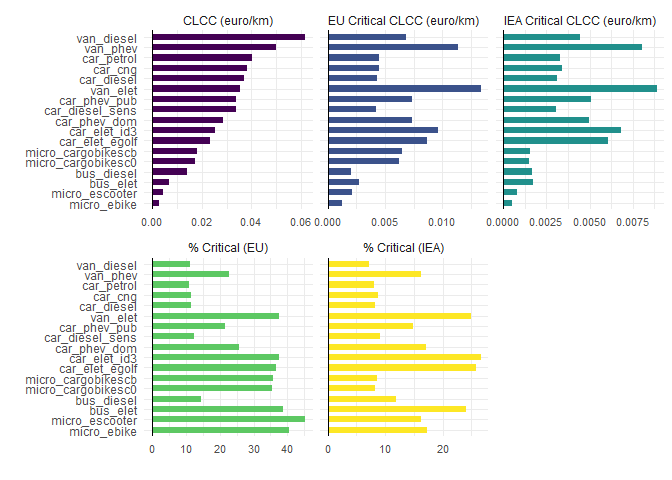
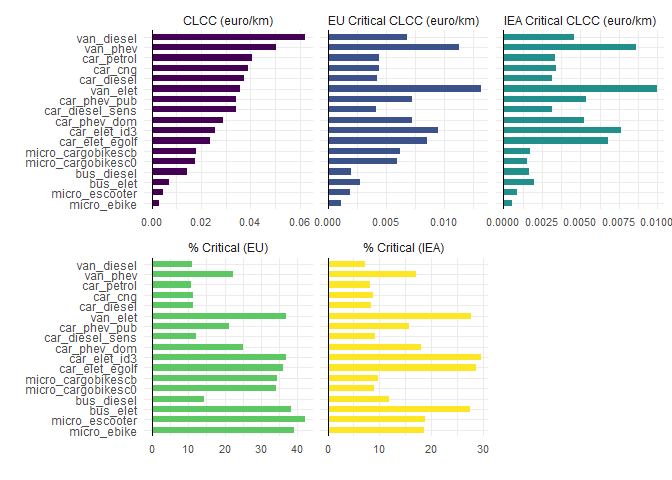
Updates in DESCRIPTION, README and Vignette files

diff --git a/README.md b/README.md
@@ -50,14 +50,14 @@ res[["table"]]
 #>    object    phase    clcc clcc_critical_eu clcc_critical_iea share_critical_iea
 #>    <chr>     <chr>   <dbl>            <dbl>             <dbl>              <dbl>
 #>  1 bus_dies… batt… 0              0                 0                      0    
-#>  2 bus_dies… manu… 3.93e-4        0.0000541         0.0000735             18.7  
-#>  3 bus_dies… total 1.40e-2        0.00204           0.00166               11.9  
+#>  2 bus_dies… manu… 3.97e-4        0.0000527         0.0000747             18.8  
+#>  3 bus_dies… total 1.42e-2        0.00205           0.00170               11.9  
 #>  4 bus_dies… uso   0              0                 0                      0    
-#>  5 bus_dies… veic… 4.06e-3        0.00180           0.00152               37.3  
-#>  6 bus_dies… vett… 9.57e-3        0.000179          0.0000719              0.752
-#>  7 bus_elet  batt… 2.75e-3        0.00186           0.00128               46.6  
-#>  8 bus_elet  manu… 3.26e-4        0.0000414         0.0000343             10.5  
-#>  9 bus_elet  total 7.10e-3        0.00275           0.00171               24.1  
+#>  5 bus_dies… veic… 4.12e-3        0.00182           0.00155               37.6  
+#>  6 bus_dies… vett… 9.70e-3        0.000175          0.0000748              0.772
+#>  7 bus_elet  batt… 2.80e-3        0.00189           0.00155               55.5  
+#>  8 bus_elet  manu… 3.29e-4        0.0000400         0.0000348             10.6  
+#>  9 bus_elet  total 7.19e-3        0.00275           0.00199               27.7  
 #> 10 bus_elet  uso   0              0                 0                      0    
 #> # ℹ 92 more rows
 #> # ℹ 1 more variable: share_critical_eu <dbl>
@@ -70,7 +70,7 @@ The default plot looks like:
 res[["plot"]]
 ```
 
-<img src="man/figures/README-example1-plot-1.png" width="100%" />
+<img src="man/figures/README-example1-plot-1.png" alt="" width="100%" />
 
 Even though data on reference prices cannot be updated programmatically
 since not all source have an API, it is possible to extract a tibble
@@ -85,15 +85,16 @@ information on price levels and data sources in the
 prices <- clcc_prices_ref
 
 head(prices, 5)
-#> # A tibble: 5 × 13
+#> # A tibble: 5 × 14
 #>   comm      no_comm um    source  critical_eu critical_iea macro_cat code   mean
 #>   <chr>       <dbl> <chr> <chr>   <chr>       <chr>        <chr>     <chr> <dbl>
 #> 1 Acids           1 kg    none    no          no           Chemical… <NA>     0 
-#> 2 Actinium        2 kg    comtra… no          no           Actinium  2844…  218.
+#> 2 Actinium        2 kg    comtra… no          no           Actinium  2844…  348.
 #> 3 Additives       3 kg    none    no          no           Chemical… <NA>     0 
 #> 4 Air             4 kg    none    no          no           Gases, o… <NA>     0 
 #> 5 Alloys          5 kg    none    no          no           Other     <NA>     0 
-#> # ℹ 4 more variables: min <dbl>, max <dbl>, n_obs <int>, ref_yr <dbl>
+#> # ℹ 5 more variables: min <dbl>, max <dbl>, n_obs <int>, update_yr <dbl>,
+#> #   defl_year <dbl>
 ```
 
 The `clcc` function returns the total CLCC indicator (computed taking
@@ -114,23 +115,21 @@ detail_info <- clcc_detail(data_path = path_to_folder,
                            critical = FALSE,
                            phase_of_int = "total",
                            collapse_share = 0.9)
-#> Joining with `by = join_by(comm, um, no_comm)`
-#> Joining with `by = join_by(object, phase, clcc_type)`
 
 head(detail_info[["table"]], 10)
 #> # A tibble: 10 × 6
 #>    object     macro_cat   phase clcc_type         clcc  share
 #>    <chr>      <chr>       <chr> <chr>            <dbl>  <dbl>
-#>  1 bus_diesel Oil         total baseline-clcc 0.00885  0.631 
-#>  2 bus_diesel Shale       total baseline-clcc 0.00195  0.139 
-#>  3 bus_diesel Other       total baseline-clcc 0.00140  0.100 
-#>  4 bus_diesel PGMs        total baseline-clcc 0.00111  0.0792
-#>  5 bus_diesel Natural gas total baseline-clcc 0.000709 0.0506
-#>  6 bus_elet   Natural gas total baseline-clcc 0.00226  0.318 
-#>  7 bus_elet   Other       total baseline-clcc 0.000837 0.118 
-#>  8 bus_elet   Lithium     total baseline-clcc 0.000801 0.113 
-#>  9 bus_elet   Coal        total baseline-clcc 0.000735 0.104 
-#> 10 bus_elet   Oil         total baseline-clcc 0.000674 0.0949
+#>  1 bus_diesel Oil         total baseline-clcc 0.00897  0.631 
+#>  2 bus_diesel Other       total baseline-clcc 0.00212  0.149 
+#>  3 bus_diesel Shale       total baseline-clcc 0.00198  0.140 
+#>  4 bus_diesel PGMs        total baseline-clcc 0.00114  0.0800
+#>  5 bus_elet   Natural gas total baseline-clcc 0.00232  0.322 
+#>  6 bus_elet   Other       total baseline-clcc 0.000837 0.116 
+#>  7 bus_elet   Lithium     total baseline-clcc 0.000834 0.116 
+#>  8 bus_elet   Coal        total baseline-clcc 0.000693 0.0963
+#>  9 bus_elet   Oil         total baseline-clcc 0.000683 0.0950
+#> 10 bus_elet   Nickel      total baseline-clcc 0.000445 0.0619
 ```
 
 Also in this case the function returns a default plot of the results.
@@ -140,7 +139,7 @@ Also in this case the function returns a default plot of the results.
 detail_info[["plot"]]
 ```
 
-<img src="man/figures/README-example4-plot-1.png" width="100%" />
+<img src="man/figures/README-example4-plot-1.png" alt="" width="100%" />
 
 The package provides two alternative versions of the CLCC indicator,
 taking into account critical materials only. The first alternative uses
@@ -183,21 +182,20 @@ res_weights <-
     use_weights = TRUE,
     weights_path = path_to_weights
   )
-#> Joining with `by = join_by(object, comm, phase)`
 
 res_weights[["table"]]
 #> # A tibble: 102 × 7
 #>    object    phase    clcc clcc_critical_eu clcc_critical_iea share_critical_iea
 #>    <chr>     <chr>   <dbl>            <dbl>             <dbl>              <dbl>
 #>  1 bus_dies… batt… 0              0                 0                      0    
-#>  2 bus_dies… manu… 3.93e-4        0.0000293         0.0000737             18.8  
-#>  3 bus_dies… total 1.40e-2        0.00175           0.00167               11.9  
+#>  2 bus_dies… manu… 3.97e-4        0.0000292         0.0000749             18.9  
+#>  3 bus_dies… total 1.42e-2        0.00178           0.00170               12.0  
 #>  4 bus_dies… uso   0              0                 0                      0    
-#>  5 bus_dies… veic… 4.07e-3        0.00161           0.00152               37.4  
-#>  6 bus_dies… vett… 9.57e-3        0.000120          0.0000720              0.752
-#>  7 bus_elet  batt… 2.75e-3        0.00161           0.00128               46.6  
-#>  8 bus_elet  manu… 3.26e-4        0.0000181         0.0000344             10.6  
-#>  9 bus_elet  total 7.11e-3        0.00208           0.00172               24.2  
+#>  5 bus_dies… veic… 4.12e-3        0.00164           0.00155               37.6  
+#>  6 bus_dies… vett… 9.70e-3        0.000120          0.0000749              0.773
+#>  7 bus_elet  batt… 2.80e-3        0.00165           0.00155               55.6  
+#>  8 bus_elet  manu… 3.30e-4        0.0000180         0.0000350             10.6  
+#>  9 bus_elet  total 7.20e-3        0.00213           0.00200               27.7  
 #> 10 bus_elet  uso   0              0                 0                      0    
 #> # ℹ 92 more rows
 #> # ℹ 1 more variable: share_critical_eu <dbl>
@@ -228,30 +226,28 @@ phase <- "total" # the life cycle phase for which running the simulation
 mc_res <- clcc_mc(data_path = path_to_folder, 
                   #weights_path = path_to_weights,
                   rep = rep)
-#> Joining with `by = join_by(comm, um, no_comm)`
-#> Joining with `by = join_by(object, phase)`
 
 mc_res[["table"]]
 #> # A tibble: 17 × 10
 #>    object      phase clcc_sim ecdf_fn    clcc clcc_critical_eu clcc_critical_iea
 #>    <chr>       <chr> <list>   <list>    <dbl>            <dbl>             <dbl>
-#>  1 bus_diesel  total <dbl>    <ecdf>  0.0140           0.00204          0.00166 
-#>  2 bus_elet    total <dbl>    <ecdf>  0.00710          0.00275          0.00171 
-#>  3 car_cng     total <dbl>    <ecdf>  0.0382           0.00447          0.00338 
-#>  4 car_diesel  total <dbl>    <ecdf>  0.0371           0.00428          0.00310 
-#>  5 car_diesel… total <dbl>    <ecdf>  0.0337           0.00422          0.00307 
-#>  6 car_elet_e… total <dbl>    <ecdf>  0.0235           0.00864          0.00608 
-#>  7 car_elet_i… total <dbl>    <ecdf>  0.0256           0.00960          0.00682 
-#>  8 car_petrol  total <dbl>    <ecdf>  0.0402           0.00444          0.00328 
-#>  9 car_phev_d… total <dbl>    <ecdf>  0.0288           0.00738          0.00494 
-#> 10 car_phev_p… total <dbl>    <ecdf>  0.0339           0.00734          0.00506 
-#> 11 micro_carg… total <dbl>    <ecdf>  0.0175           0.00622          0.00146 
-#> 12 micro_carg… total <dbl>    <ecdf>  0.0182           0.00653          0.00156 
-#> 13 micro_ebike total <dbl>    <ecdf>  0.00306          0.00124          0.000529
-#> 14 micro_esco… total <dbl>    <ecdf>  0.00472          0.00213          0.000766
-#> 15 van_diesel  total <dbl>    <ecdf>  0.0614           0.00687          0.00446 
-#> 16 van_elet    total <dbl>    <ecdf>  0.0356           0.0133           0.00887 
-#> 17 van_phev    total <dbl>    <ecdf>  0.0497           0.0114           0.00806 
+#>  1 bus_diesel  total <dbl>    <ecdf>  0.0142           0.00205          0.00170 
+#>  2 bus_elet    total <dbl>    <ecdf>  0.00719          0.00275          0.00199 
+#>  3 car_cng     total <dbl>    <ecdf>  0.0389           0.00442          0.00344 
+#>  4 car_diesel  total <dbl>    <ecdf>  0.0376           0.00424          0.00316 
+#>  5 car_diesel… total <dbl>    <ecdf>  0.0340           0.00418          0.00313 
+#>  6 car_elet_e… total <dbl>    <ecdf>  0.0237           0.00857          0.00682 
+#>  7 car_elet_i… total <dbl>    <ecdf>  0.0257           0.00951          0.00763 
+#>  8 car_petrol  total <dbl>    <ecdf>  0.0407           0.00440          0.00335 
+#>  9 car_phev_d… total <dbl>    <ecdf>  0.0290           0.00727          0.00527 
+#> 10 car_phev_p… total <dbl>    <ecdf>  0.0342           0.00723          0.00540 
+#> 11 micro_carg… total <dbl>    <ecdf>  0.0174           0.00593          0.00156 
+#> 12 micro_carg… total <dbl>    <ecdf>  0.0181           0.00623          0.00175 
+#> 13 micro_ebike total <dbl>    <ecdf>  0.00303          0.00118          0.000564
+#> 14 micro_esco… total <dbl>    <ecdf>  0.00455          0.00191          0.000858
+#> 15 van_diesel  total <dbl>    <ecdf>  0.0622           0.00682          0.00456 
+#> 16 van_elet    total <dbl>    <ecdf>  0.0358           0.0132           0.00996 
+#> 17 van_phev    total <dbl>    <ecdf>  0.0503           0.0113           0.00860 
 #> # ℹ 3 more variables: share_critical_iea <dbl>, share_critical_eu <dbl>,
 #> #   prob_inf_base <dbl>
 ```
@@ -271,8 +267,6 @@ differences between all the simulated values for each object.
 mc_res2 <- clcc_mc(data_path = path_to_folder, 
                    #path_weights = path_to_weights,
                    rep = rep, prob_inf_alt = TRUE)
-#> Joining with `by = join_by(comm, um, no_comm)`
-#> Joining with `by = join_by(object, phase)`
 
 mc_res2[["table"]]
 #> # A tibble: 289 × 3
